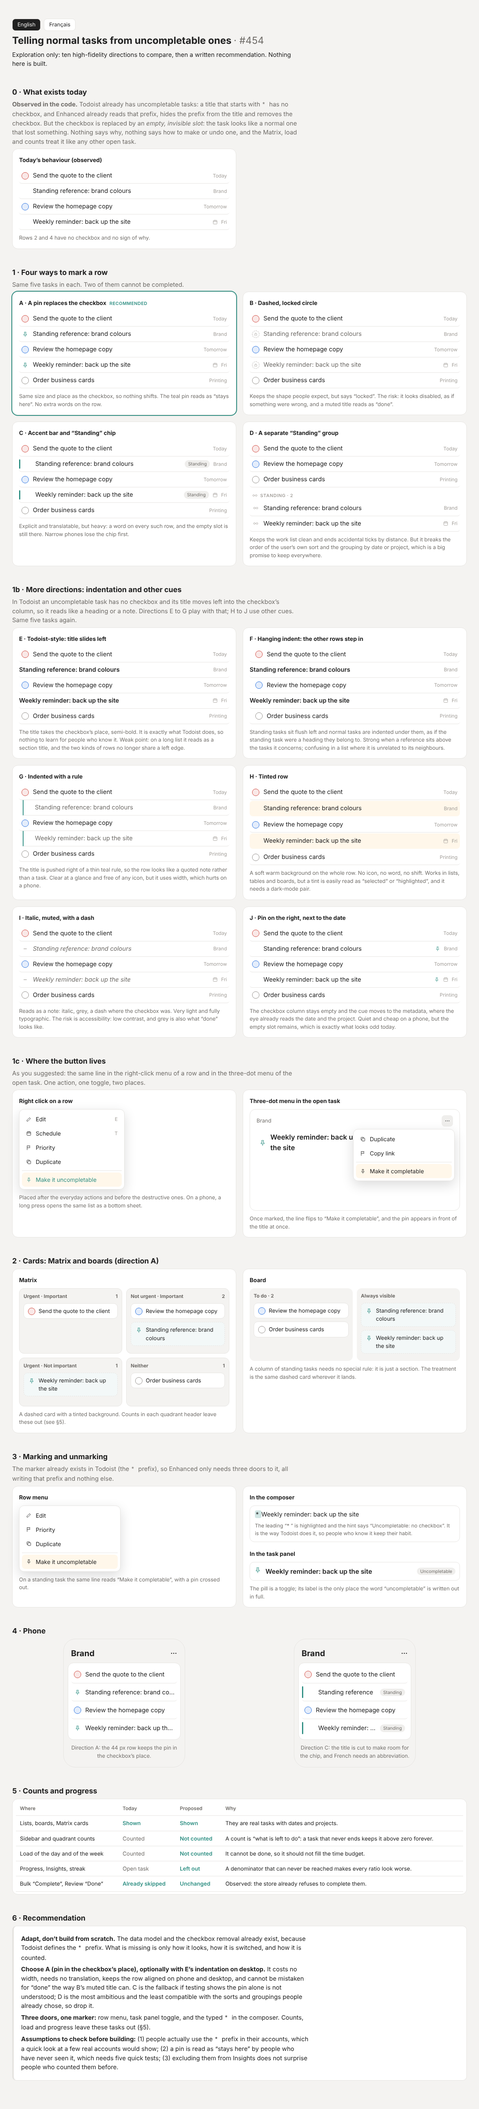
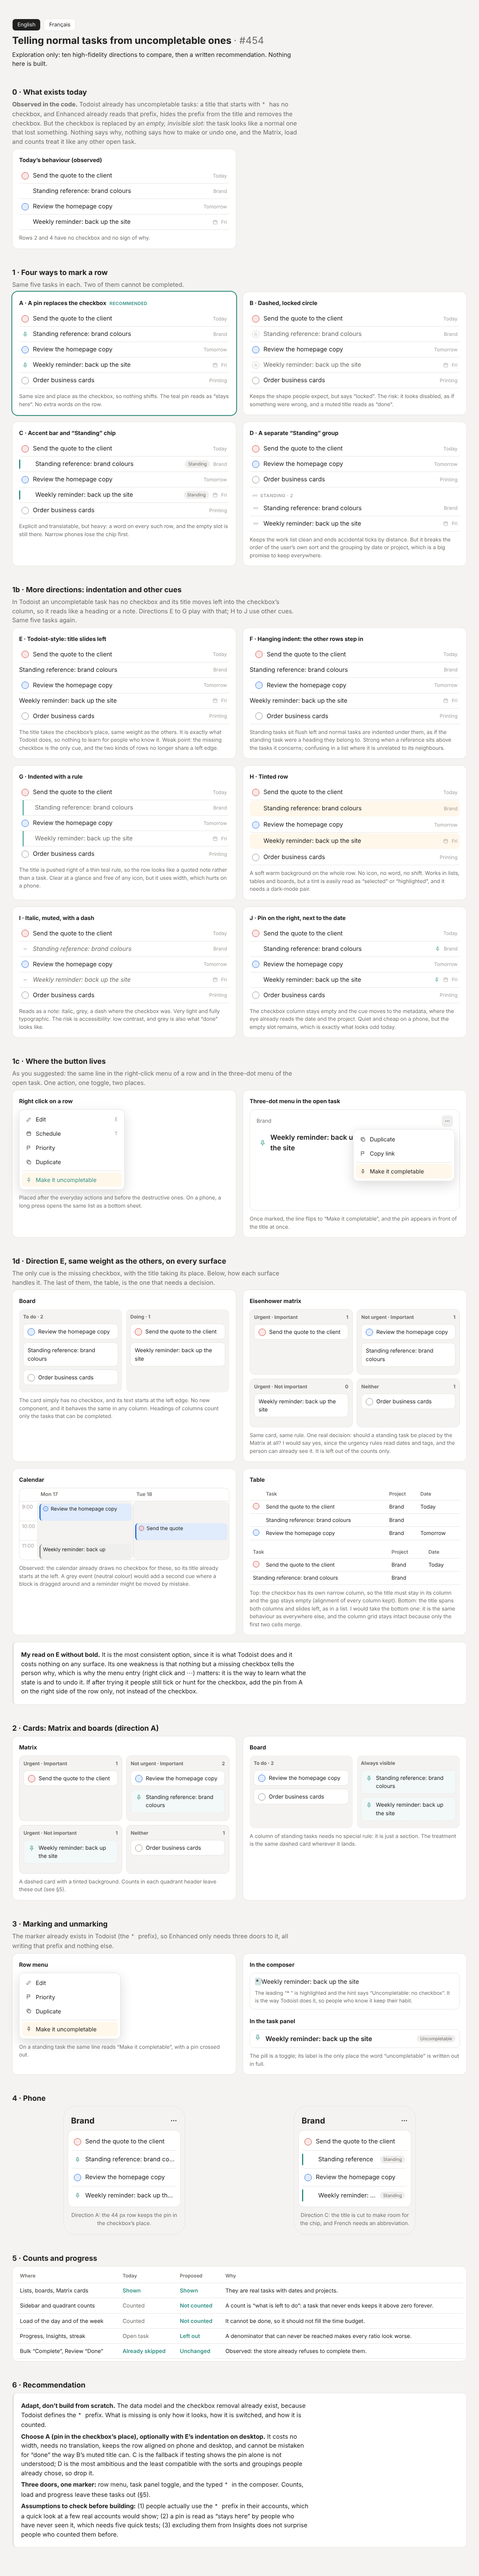
Mockups #454: plain direction E across board, Eisenhower, calendar and table
Claude-Session: https://claude.ai/code/session_01PmG7epDPFYgztEV3xrhKbj

diff --git a/docs/mockups/2.34.0/uncompletable-tasks.html b/docs/mockups/2.34.0/uncompletable-tasks.html
@@ -79,8 +79,8 @@ td.y{color:var(--teal);font-weight:600}td.n{color:var(--muted)}
 
 /* E-J: indentation and other cues */
 .E .u .slot,.F .u .slot,.G .u .slot{display:none}
-.E .u{padding-left:0}.E .u .title{font-weight:600}
-.F .u{margin-left:0;padding-left:0}.F .u .title{font-weight:600}
+.E .row.u{padding-left:0}
+.F .u{margin-left:0;padding-left:0}
 .F .row:not(.u){padding-left:14px}
 .F .rule{height:1px;background:var(--line)}
 .G .u{padding-left:28px;border-left:2px solid var(--teal);margin-left:9px;border-radius:0 6px 6px 0}
@@ -99,6 +99,20 @@ td.y{color:var(--teal);font-weight:600}td.n{color:var(--muted)}
 .modal .top .btns{display:flex;gap:6px}.modal .top .btns span{width:28px;height:28px;border-radius:8px;display:grid;place-items:center}
 .modal .top .btns span.on{background:var(--chip);color:var(--text)}
 .modal .menu{position:absolute;right:12px;top:48px}
+
+/* 1d: every surface, direction E plain */
+.cal{display:grid;grid-template-columns:44px repeat(2,1fr);border:1px solid var(--line);border-radius:12px;overflow:hidden;font-size:12.5px;background:var(--card)}
+.cal .h{padding:6px 8px;color:var(--muted);border-bottom:1px solid var(--line);font-weight:600}
+.cal .t{color:var(--faint);padding:4px 6px;height:48px;border-top:1px solid var(--line)}
+.cal .col{position:relative;border-left:1px solid var(--line)}
+.ev{position:absolute;left:4px;right:4px;border-radius:8px;padding:4px 6px;background:color-mix(in srgb,var(--p3) 14%,var(--card));border-left:3px solid var(--p3);display:flex;gap:6px;align-items:flex-start}
+.ev.u{background:color-mix(in srgb,var(--p4) 14%,var(--card));border-left-color:var(--p4)}
+.ev .check{width:13px;height:13px;margin-top:2px}
+.tbl{width:100%;font-size:13px}.tbl td,.tbl th{padding:6px 8px;border-bottom:1px solid var(--line)}
+.tbl td.c{width:30px}.tbl .check{display:block;width:16px;height:16px}.tbl .u td.title{padding-left:8px}
+.tbl.merge .u td.c{display:none}.tbl.merge .u td.title{padding-left:8px}
+.E .card.u{border-style:solid;background:var(--card)}
+.E .card.u .glyph{display:none}
 [data-fr]{display:none}
 html[data-lang=fr] [data-en]{display:none}
 html[data-lang=fr] [data-fr]{display:revert}
@@ -182,7 +196,7 @@ html[data-lang=fr] [data-fr]{display:revert}
       <div class="row"><span class="check p3"></span><span class="title">Review the homepage copy</span><span class="meta">Tomorrow</span></div>
       <div class="row u"><span class="title">Weekly reminder: back up the site</span><span class="meta"><svg><use href="#cal"/></svg>Fri</span></div>
       <div class="row"><span class="check"></span><span class="title">Order business cards</span><span class="meta">Printing</span></div>
-      <p class="cap"><span data-en>The title takes the checkbox’s place, semi-bold. It is exactly what Todoist does, so nothing to learn for people who know it. Weak point: on a long list it reads as a section title, and the two kinds of rows no longer share a left edge.</span><span data-fr>Le titre prend la place de la case, en demi-gras. C’est exactement ce que fait Todoist, rien à apprendre pour ceux qui le connaissent. Point faible : dans une longue liste on croit voir un titre de section, et les deux types de lignes n’ont plus le même bord gauche.</span></p></div><div class="panel F"><h3>F · <span data-en>Hanging indent: the other rows step in</span><span data-fr>Retrait suspendu : les autres lignes se décalent</span></h3>
+      <p class="cap"><span data-en>The title takes the checkbox’s place, same weight as the others. It is exactly what Todoist does, so nothing to learn for people who know it. Weak point: the missing checkbox is the only cue, and the two kinds of rows no longer share a left edge.</span><span data-fr>Le titre prend la place de la case, même graisse que les autres. C’est exactement ce que fait Todoist, rien à apprendre pour ceux qui le connaissent. Point faible : la case absente est le seul repère, et les deux types de lignes n’ont plus le même bord gauche.</span></p></div><div class="panel F"><h3>F · <span data-en>Hanging indent: the other rows step in</span><span data-fr>Retrait suspendu : les autres lignes se décalent</span></h3>
       <div class="row"><span class="check p1"></span><span class="title">Send the quote to the client</span><span class="meta">Today</span></div>
       <div class="row u"><span class="title">Standing reference: brand colours</span><span class="meta">Brand</span></div>
       <div class="row"><span class="check p3"></span><span class="title">Review the homepage copy</span><span class="meta">Tomorrow</span></div>
@@ -240,6 +254,56 @@ html[data-lang=fr] [data-fr]{display:revert}
       </div>
       <p class="cap"><span data-en>Once marked, the line flips to “Make it completable”, and the pin appears in front of the title at once.</span><span data-fr>Une fois marquée, la ligne devient « Rendre terminable », et l’épingle apparaît aussitôt devant le titre.</span></p></div>
   </div>
+
+
+  <h2><span data-en>1d · Direction E, same weight as the others, on every surface</span><span data-fr>1d · Piste E, même graisse que les autres, sur toutes les surfaces</span></h2>
+  <p><span data-en>The only cue is the missing checkbox, with the title taking its place. Below, how each surface handles it. The last of them, the table, is the one that needs a decision.</span><span data-fr>Le seul repère est la case absente, le titre prenant sa place. Ci-dessous, comment chaque surface le gère. La dernière, le tableau, est la seule qui demande une décision.</span></p>
+  <div class="grid">
+    <div class="panel E"><h3><span data-en>Board</span><span data-fr>Tableau de cartes</span></h3>
+      <div class="board">
+        <div class="col"><h4>To do · 2</h4>
+          <div class="card"><span class="check p3" style="margin-top:2px"></span>Review the homepage copy</div>
+          <div class="card u">Standing reference: brand colours</div>
+          <div class="card"><span class="check" style="margin-top:2px"></span>Order business cards</div></div>
+        <div class="col"><h4>Doing · 1</h4>
+          <div class="card"><span class="check p1" style="margin-top:2px"></span>Send the quote to the client</div>
+          <div class="card u">Weekly reminder: back up the site</div></div>
+      </div>
+      <p class="cap"><span data-en>The card simply has no checkbox, and its text starts at the left edge. No new component, and it behaves the same in any column. Headings of columns count only the tasks that can be completed.</span><span data-fr>La carte n’a simplement pas de case et son texte commence au bord gauche. Aucun nouveau composant, et c’est identique dans n’importe quelle colonne. Les titres de colonnes ne comptent que les tâches terminables.</span></p></div>
+
+    <div class="panel E"><h3><span data-en>Eisenhower matrix</span><span data-fr>Matrice d’Eisenhower</span></h3>
+      <div class="quad">
+        <div class="q"><h4>Urgent · Important<span>1</span></h4><div class="card"><span class="check p1" style="margin-top:2px"></span>Send the quote to the client</div></div>
+        <div class="q"><h4>Not urgent · Important<span>1</span></h4><div class="card"><span class="check p3" style="margin-top:2px"></span>Review the homepage copy</div><div class="card u">Standing reference: brand colours</div></div>
+        <div class="q"><h4>Urgent · Not important<span>0</span></h4><div class="card u">Weekly reminder: back up the site</div></div>
+        <div class="q"><h4>Neither<span>1</span></h4><div class="card"><span class="check" style="margin-top:2px"></span>Order business cards</div></div>
+      </div>
+      <p class="cap"><span data-en>Same card, same rule. One real decision: should a standing task be placed by the Matrix at all? I would say yes, since the urgency rules read dates and tags, and the person can already see it. It is left out of the counts only.</span><span data-fr>Même carte, même règle. Une vraie décision : la Matrice doit-elle classer une tâche permanente ? Je dirais oui, puisque les règles d’urgence lisent dates et étiquettes et que la personne la voit déjà. Elle n’est exclue que des compteurs.</span></p></div>
+
+    <div class="panel E"><h3><span data-en>Calendar</span><span data-fr>Calendrier</span></h3>
+      <div class="cal">
+        <div></div><div class="h">Mon 17</div><div class="h">Tue 18</div>
+        <div><div class="t">9:00</div><div class="t">10:00</div><div class="t">11:00</div></div>
+        <div class="col"><div class="ev" style="top:6px;height:42px"><span class="check p3"></span>Review the homepage copy</div><div class="ev u" style="top:106px;height:36px">Weekly reminder: back up</div></div>
+        <div class="col"><div class="ev" style="top:54px;height:42px"><span class="check p1"></span>Send the quote</div></div>
+      </div>
+      <p class="cap"><span data-en>Observed: the calendar already draws no checkbox for these, so its title already starts at the left. A grey event (neutral colour) would add a second cue where a block is dragged around and a reminder might be moved by mistake.</span><span data-fr>Observé : le calendrier ne dessine déjà aucune case pour elles, leur titre commence donc déjà à gauche. Un événement gris (couleur neutre) ajouterait un second repère là où l’on déplace des blocs et où un rappel peut l’être par erreur.</span></p></div>
+
+    <div class="panel E"><h3><span data-en>Table</span><span data-fr>Tableau</span></h3>
+      <table class="tbl">
+        <tr><th class="c"></th><th>Task</th><th>Project</th><th>Date</th></tr>
+        <tr><td class="c"><span class="check p1"></span></td><td class="title">Send the quote to the client</td><td>Brand</td><td>Today</td></tr>
+        <tr class="u"><td class="c"></td><td class="title">Standing reference: brand colours</td><td>Brand</td><td></td></tr>
+        <tr><td class="c"><span class="check p3"></span></td><td class="title">Review the homepage copy</td><td>Brand</td><td>Tomorrow</td></tr>
+      </table>
+      <table class="tbl merge" style="margin-top:14px">
+        <tr><th colspan="2">Task</th><th>Project</th><th>Date</th></tr>
+        <tr><td class="c"><span class="check p1"></span></td><td class="title">Send the quote to the client</td><td>Brand</td><td>Today</td></tr>
+        <tr class="u"><td class="title" colspan="2" style="padding-left:8px">Standing reference: brand colours</td><td>Brand</td><td></td></tr>
+      </table>
+      <p class="cap"><span data-en>Top: the checkbox has its own narrow column, so the title must stay in its column and the gap stays empty (alignment of every column kept). Bottom: the title spans both columns and slides left, as in a list. I would take the bottom one: it is the same behaviour as everywhere else, and the column grid stays intact because only the first two cells merge.</span><span data-fr>Haut : la case a sa propre colonne étroite, le titre reste donc dans sa colonne et le vide demeure (alignement de toutes les colonnes conservé). Bas : le titre occupe les deux colonnes et glisse à gauche, comme en liste. Je retiendrais le bas : même comportement que partout ailleurs, et la grille reste intacte puisque seules les deux premières cellules fusionnent.</span></p></div>
+  </div>
+  <div class="reco" style="margin-top:16px"><p><b><span data-en>My read on E without bold.</span><span data-fr>Mon avis sur E sans le gras.</span></b> <span data-en>It is the most consistent option, since it is what Todoist does and it costs nothing on any surface. Its one weakness is that nothing but a missing checkbox tells the person why, which is why the menu entry (right click and ⋯) matters: it is the way to learn what the state is and to undo it. If after trying it people still tick or hunt for the checkbox, add the pin from A on the right side of the row only, not instead of the checkbox.</span><span data-fr>C’est l’option la plus cohérente, puisque c’est ce que fait Todoist et qu’elle ne coûte rien sur aucune surface. Sa seule faiblesse : rien d’autre qu’une case absente n’explique l’état, d’où l’importance de l’entrée de menu (clic droit et ⋯), qui permet d’apprendre cet état et de le défaire. Si, à l’usage, des gens cherchent encore la case, on ajoutera l’épingle de A à droite de la ligne seulement, pas à la place de la case.</span></p></div>
 
   <h2><span data-en>2 · Cards: Matrix and boards (direction A)</span><span data-fr>2 · Cartes : Matrice et tableaux (piste A)</span></h2>
   <div class="grid">
